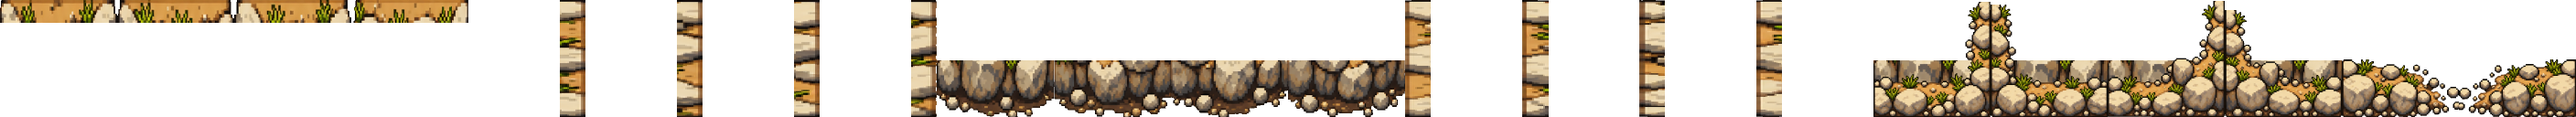
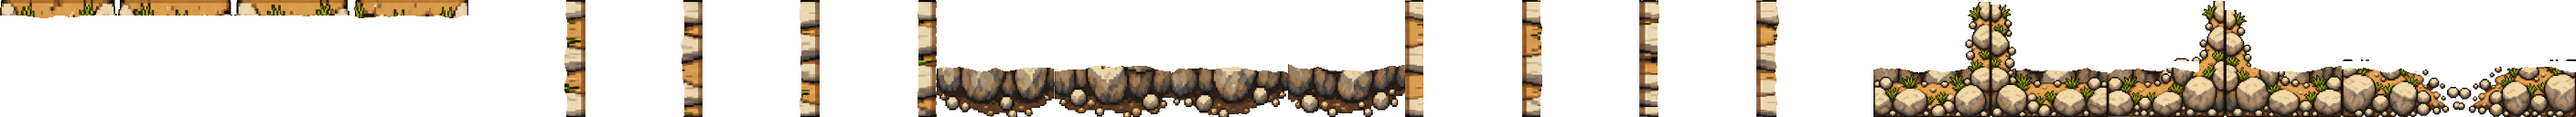
Tear the inner edge of every rim, with the masks the ground blend already has
Mechanism A of the continuous-edges plan, and the plan had the wrong edge in its
name. A rim's *outer* silhouette was never the problem -- the art draws rubble
along it and the overhang pushes it off the boundary. What ruled the grid was the
inner edge: `place` lays each band as a rectangle, so the top of every south face
sat at exactly the same pixel across the whole cell, sixteen dead straight lines
to a screen. It now varies 70-80px where it was a flat 66.

`tear` reuses `assets/edges.png`, one mask variant per band variant. Reusing the
ground blend's masks rather than writing a second noise field is worth more than
the lines saved: a tear on a cliff then has the same character as a tear between
two grounds, so the map has one way of not being a grid rather than two that
nearly match.

Thresholded, not blended, which is the whole difference between a tear and a
fade. Multiplying by the mask's alpha is the obvious reading and was tried first;
it gives a soft gradient along the top of every wall, which is the dissolved
shoreline docs/endgame-plan.md records as built and reverted. A tear keeps a hard
boundary and varies where it is, so the mask is read at its own scale rather than
stretched across the bite.

Two guards, both found by measuring rather than by reasoning. A corner's vertical
arm rises to the top of the cell and the tear works inward from a fixed line, so
without a guard the bite opens a hole in the turn the piece exists to draw --
[…]

diff --git a/tools/build-rims.js b/tools/build-rims.js
@@ -540,6 +540,73 @@ function contentBox(cell, width, height) {
   return { x0, x1, y0, y1 };
 }
 
+/**
+ * Where the tear goes, and how deep, as a fraction of the band's own depth.
+ *
+ * **The torn edge is the band's *inner* one, which is the opposite of where you first reach for.**
+ * A rim's outer silhouette is already ragged -- the art draws rubble and loose stone there, and the
+ * overhang in `scenePlan.ts` pushes it off the boundary. What still reads as a grid is the line on
+ * the *other* side: `place` lays each band as a rectangle, so the top of every south face is dead
+ * straight at exactly 62px across the full cell, sixteen such lines to a screen. Tearing it makes
+ * the wall's height vary along its length, which is what a rock face does.
+ *
+ * A third of the band rather than the mask's full 34% of a cell. `assets/edges.png` was drawn to
+ * bleed one ground into another across a whole tile; a face is 62px deep and 28 wide, and a tear at
+ * the mask's nominal reach would eat two thirds of it.
+ */
+const TEAR = 0.3;
+
+/** The depth a straight south band lands at, and so the line a corner's arm is torn along. */
+const SOUTH_DEPTH = Math.round(CELL * 0.48);
+
+/** The mask edge that tears a band's inner side: the far side from the one it is named for. */
+const INNER = { n: 's', e: 'w', s: 'n', w: 'e' };
+
+/**
+ * Bite a torn edge out of a band's inner side, using the masks the ground blend already uses.
+ *
+ * Reusing them rather than writing a second noise field is worth it for more than the lines saved:
+ * the tear on a cliff then has the same character as the tear between two grounds, so the map has
+ * one way of not being a grid rather than two that nearly match. `build-edges.js` explains why the
+ * mask looks the way it does -- varying depth, an eased falloff, four variants.
+ *
+ * `guard` is given a column (or row) and returns false where the tear must not bite. A corner piece
+ * needs it: its horizontal arm should tear like any band, but its vertical arm rises to the top of
+ * the cell and cutting a notch out of that would open a hole in the very turn the piece exists for.
+ */
+function tear(frame, edge, deep, masks, maskW, variant, guard = () => true) {
+  const horizontal = edge === 'n' || edge === 's';
+  const bite = Math.max(1, Math.round(deep * TEAR));
+  const maskFrame = ['n', 'e', 's', 'w'].indexOf(INNER[edge]) * VARIANTS + (variant % VARIANTS);
+  const mx = maskFrame * CELL;
+
+  for (let i = 0; i < bite; i += 1) {
+    // Read the mask at its own scale rather than stretching its falloff across the bite. Its reach
+    // already varies 19-30px per column, which is the raggedness wanted, and `bite` only caps how
+    // deep that is allowed to go.
+    const into = i;
+    for (let j = 0; j < CELL; j += 1) {
+      if (!guard(j)) continue;
+      // The inner edge, stepping inward by i.
+      const x = horizontal ? j : edge === 'e' ? CELL - deep + i : deep - 1 - i;
+      const y = horizontal ? (edge === 's' ? CELL - deep + i : deep - 1 - i) : j;
+      if (x < 0 || y < 0 || x >= CELL || y >= CELL) continue;
+
+      // The mask cell, read from its own named edge inward by the same amount.
+      const inner = INNER[edge];
+      const sx = inner === 'w' ? into : inner === 'e' ? CELL - 1 - into : j;
+      const sy = inner === 'n' ? into : inner === 's' ? CELL - 1 - into : j;
+      // **Thresholded, not blended, and that is the difference between a tear and a fade.** Using
+      // the mask's alpha as a multiplier is the obvious reading of it and gives a soft gradient
+      // along the top of every wall -- which is the dissolved shoreline `docs/endgame-plan.md`
+      // records as built and reverted. A tear keeps a hard boundary and varies *where* it is; the
+      // mask's per-column reach is exactly that variation.
+      if (masks[(sy * maskW + mx + sx) * 4 + 3] < 128) continue;
+      frame[(y * CELL + x) * 4 + 3] = 0;
+    }
+  }
+}
+
 /** Place a band of art against the correct edge of an otherwise empty cell. */
 function place(band, bandW, bandH, edge) {
   const out = Buffer.alloc(CELL * CELL * 4);
@@ -554,6 +621,15 @@ function place(band, bandW, bandH, edge) {
 }
 
 // --- build ----------------------------------------------------------------
+
+/** The torn masks the ground blend uses, loaded once. Absent, rims keep their straight inner edge. */
+let MASKS = null;
+function masks() {
+  if (MASKS !== undefined && MASKS !== null) return MASKS;
+  const file = path.join(OUT, 'edges.png');
+  MASKS = fs.existsSync(file) ? decodePng(file) : false;
+  return MASKS;
+}
 
 function buildSheet({ id, from, to, corners }, apply) {
   const file = path.join(SRC, from);
@@ -625,6 +701,9 @@ function buildSheet({ id, from, to, corners }, apply) {
       const bandH = horizontal ? Math.max(1, Math.round((deep / across) * CELL)) : CELL;
       const band = resample(keyed, cellW, box, bandW, bandH);
       const frame = place(band, bandW, bandH, edge);
+
+      const m = masks();
+      if (m) tear(frame, edge, horizontal ? bandH : bandW, m.data, m.width, v);
 
       const index = row * VARIANTS + v;
       const ox = index * CELL;
@@ -756,6 +835,25 @@ function buildSheet({ id, from, to, corners }, apply) {
             frame[f + 3] = Math.round(outA);
           }
         }
+      }
+
+      // Tear the corner's horizontal arm the same way its neighbours are torn, or a straight turn
+      // sits between two ragged runs and is the only tile-shaped thing left in the wall.
+      //
+      // The guard is the whole difficulty. A corner's vertical arm rises to the top of the cell, and
+      // the tear works inward from a fixed line -- so without it the bite would cut a notch clean
+      // through the arm, opening a hole in the turn the piece exists to draw. Columns whose art
+      // starts well above the band line are that arm, and are left alone.
+      // Caps are torn too. Their thick end is the one that joins a run, so leaving them straight put
+      // a 9px step exactly where a cap meets the band it is ending.
+      const m2 = masks();
+      if (m2) {
+        const bandTop = CELL - SOUTH_DEPTH;
+        const topAt = (x) => {
+          for (let y = 0; y < CELL; y += 1) if (frame[(y * CELL + x) * 4 + 3] > 24) return y;
+          return CELL;
+        };
+        tear(frame, 's', SOUTH_DEPTH, m2.data, m2.width, index, (x) => topAt(x) >= bandTop - 6);
       }
 
       const ox = sheetW + index * CELL;

diff --git a/test/frames.test.ts b/test/frames.test.ts
@@ -748,6 +748,35 @@ describe('the rim sheets are built the way the engine indexes them', () => {
       expect(width).toBe(GRID * (EDGE_ORDER.length * EDGE_VARIANTS + EXTRA[sheet]!));
     });
 
+    it(`${sheet}: tears the inner edge of a band rather than ruling it straight`, () => {
+      // The line that made a rim read as a tile was never the outer silhouette -- the art draws
+      // rubble there -- but the *inner* one: `place` lays each band as a rectangle, so the top of
+      // every south face sat at exactly the same pixel across the whole cell, sixteen dead straight
+      // lines to a screen.
+      //
+      // Asserted as a spread rather than a shape, because the shape is noise and the claim is only
+      // that it is not a ruler. A flat top comes back as a spread of 0 and fails by name.
+      const { rows, stride } = decode(`assets/${sheet}.png`);
+      const top = (frame: number, x: number) => {
+        for (let y = 0; y < GRID; y += 1) {
+          if (rows[y * stride + (frame * GRID + x) * 4 + 3]! > 24) return y;
+        }
+        return GRID;
+      };
+      // The south row: four variants, each measured across its own width.
+      for (let v = 0; v < EDGE_VARIANTS; v += 1) {
+        const frame = EDGE_ORDER.indexOf('s') * EDGE_VARIANTS + v;
+        const tops: number[] = [];
+        for (let x = 0; x < GRID; x += 4) tops.push(top(frame, x));
+        const spread = Math.max(...tops) - Math.min(...tops);
+        expect(spread, `${sheet} s variant ${v}: the top of the wall is a straight line`)
+          .toBeGreaterThan(3);
+        // And it must still be a wall: a tear that ate the band would pass the test above.
+        expect(Math.max(...tops), `${sheet} s variant ${v}: the tear ate the band`)
+          .toBeLessThan(GRID - 20);
+      }
+    });
+
     it(`${sheet}: keeps no trace of the chroma key`, () => {
       // The bug: keying on brightness left the shadow under every south face, which is magenta
       // blended toward black, not bright magenta. 4,341 lilac pixels that looked fine over the

diff --git a/docs/continuous-edges-plan.md b/docs/continuous-edges-plan.md
@@ -129,7 +129,40 @@ heuristics both got it wrong and looking at the sheet was right.
 
 Mechanism B is **built**. A and C are not.
 
-### A. A torn outer outline
+### A. A torn inner outline · **shipped, and the name was wrong**
+
+Written up as a *torn outer outline*, and that was the wrong edge. A rim's outer silhouette was
+never the problem: the art draws rubble and loose stone along it, and the overhang pushes it off the
+boundary anyway. What ruled the grid was the **inner** edge — `place` lays each band as a rectangle,
+so the top of every south face sat at exactly the same pixel across the whole cell, sixteen dead
+straight lines to a screen.
+
+`tear` in `build-rims.js` bites that line out with the masks `assets/edges.png` already holds, one
+mask variant per band variant, so the wall's height now varies 70–80px across a cell where it was a
+flat 66. Reusing the ground blend's masks rather than writing a second noise field is worth more
+than the lines saved: a tear on a cliff then has the same character as a tear between two grounds,
+so the map has one way of not being a grid rather than two that nearly match.
+
+**Thresholded, not blended, and that is the whole difference between a tear and a fade.** Using the
+mask's alpha as a multiplier is the obvious reading of it, and it was tried first: it gives a soft
+gradient along the top of every wall, which is the dissolved shoreline `docs/endgame-plan.md`
+records as built and reverted. A tear keeps a hard boundary and varies *where* it is; the mask's
+per-column reach is exactly that variation, so the mask is read at its own scale rather than
+stretched.
+
+Two things it must not do, both guarded:
+
+- **Cut through a corner's vertical arm.** That arm rises to the top of the cell and the tear works
+  inward from a fixed line, so without a guard the bite opens a hole in the very turn the piece
+  exists to draw. Columns whose art starts well above the band line are left alone.
+- **Skip the caps.** They were excluded at first and that put a 9px step exactly where a cap meets
+  the run it is ending — the thick end of a cap is the end that joins.
+
+`test/frames.test.ts` asserts the spread rather than the shape: the shape is noise, and the claim is
+only that the top is not a ruler. A flat top comes back as a spread of 0 and fails by name; a tear
+deep enough to eat the band fails the second assertion beside it.
+
+### A, as originally written
 
 Mask the rim's outer edge with the same torn masks the ground blend uses, keyed by `tileHash` so it
 is deterministic and stable across a save. The rim's *inner* edge — the one against the cell it
